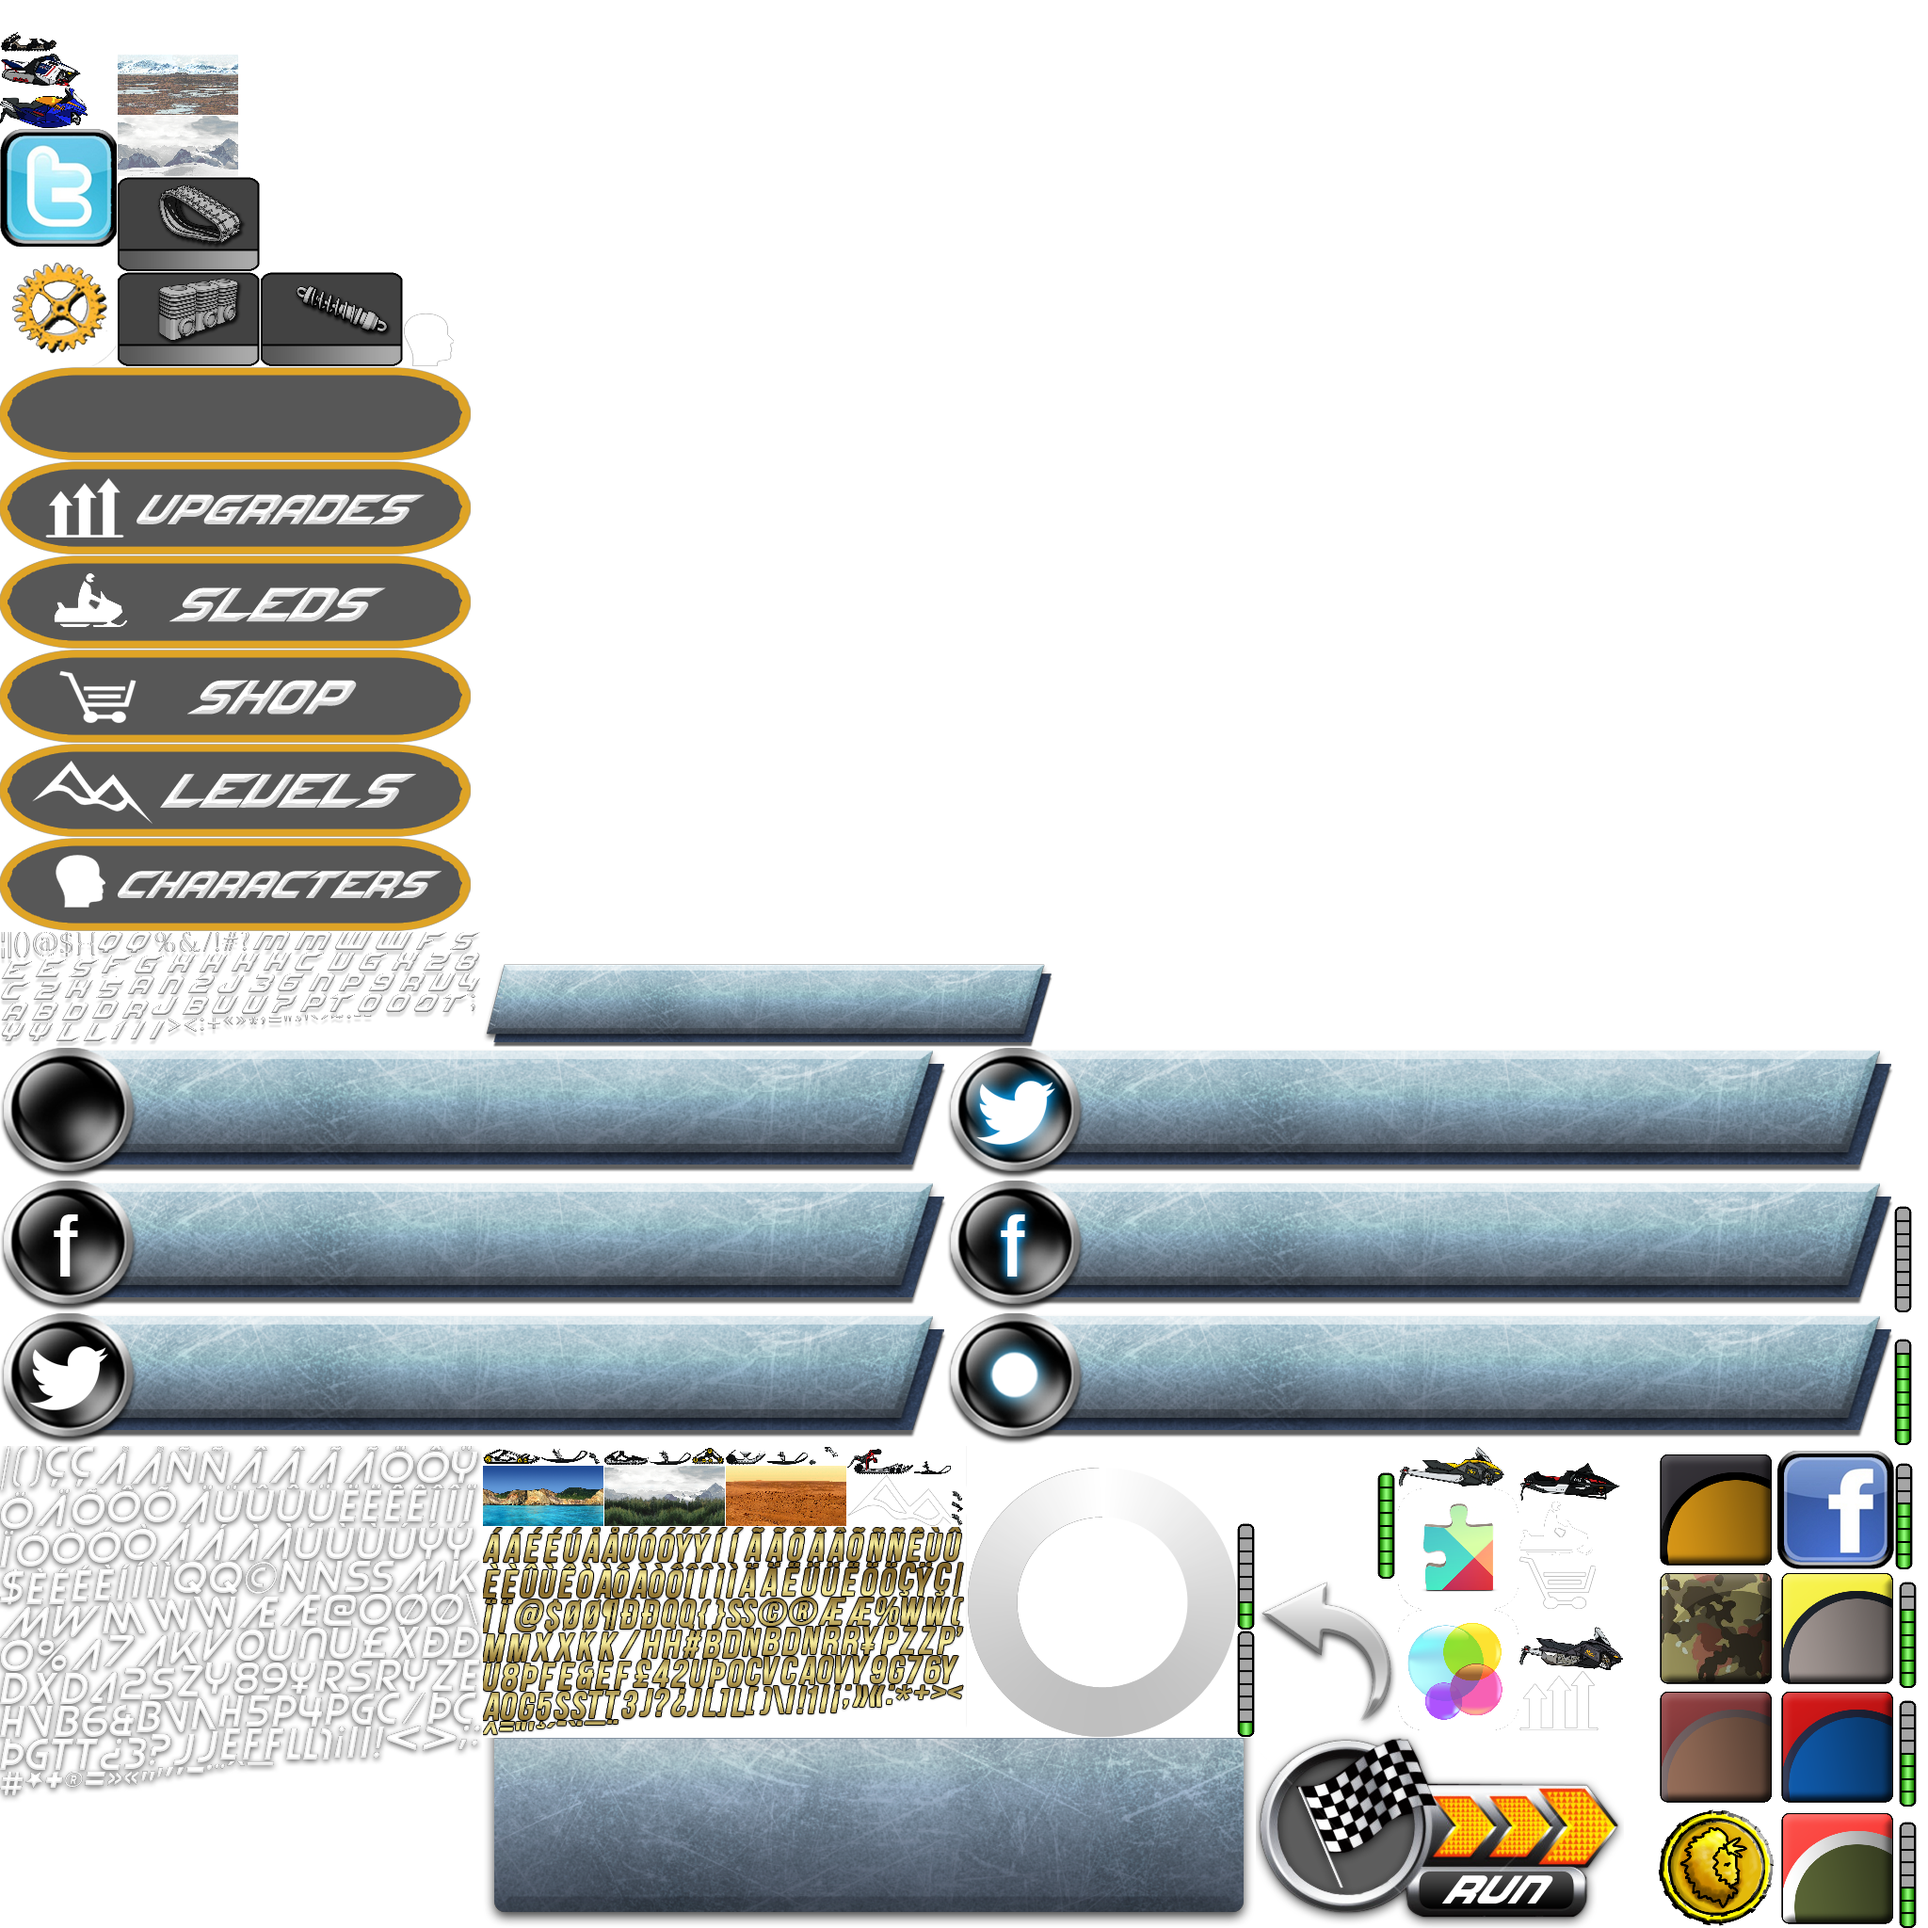
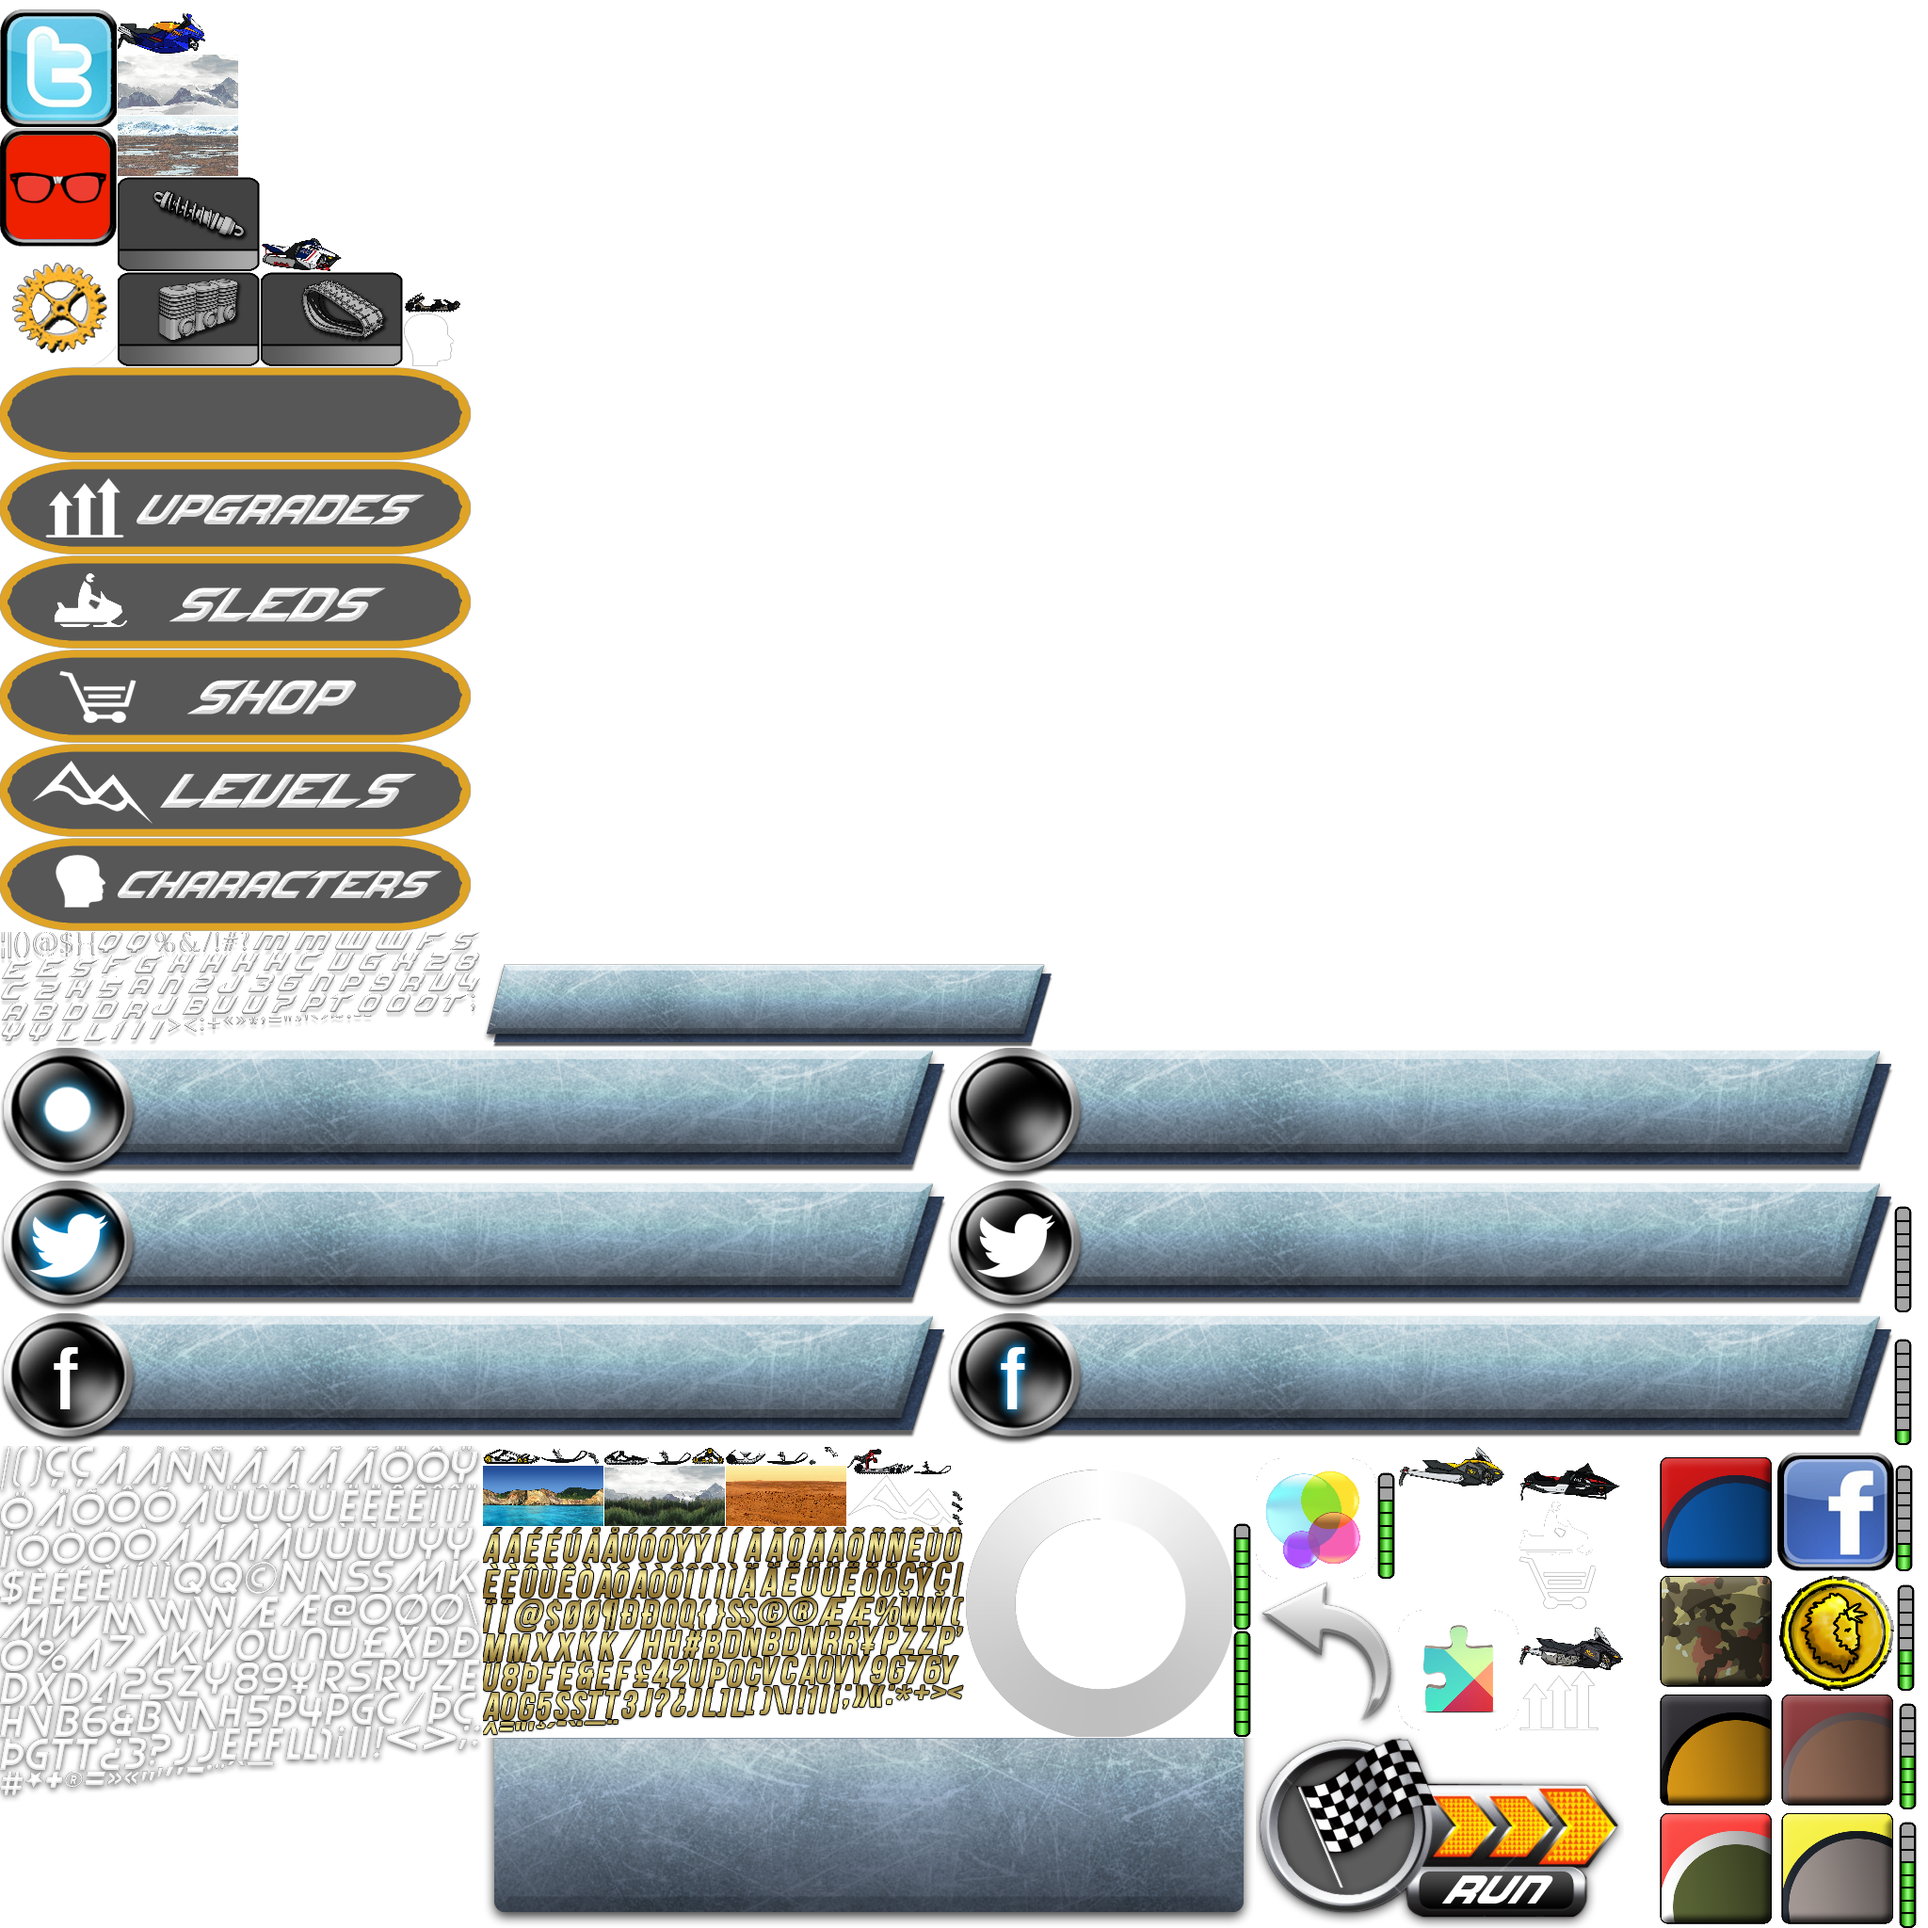
Mobi: Added Seymore button.

diff --git a/MobisAdventure/Assets/_Upgrade/Scripts/Menu/OpenLink.cs b/MobisAdventure/Assets/_Upgrade/Scripts/Menu/OpenLink.cs
@@ -1,0 +1,12 @@
+using UnityEngine;
+using System.Collections;
+
+public class OpenLink : MonoBehaviour {
+
+	public string url;
+
+	void OnClick()
+	{
+		Application.OpenURL (url);
+	}
+}
